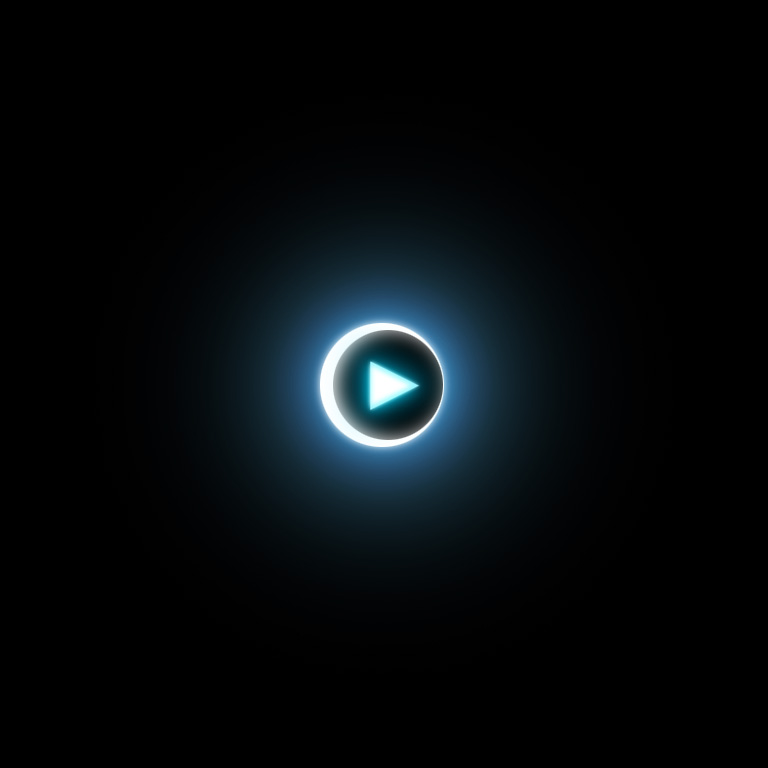
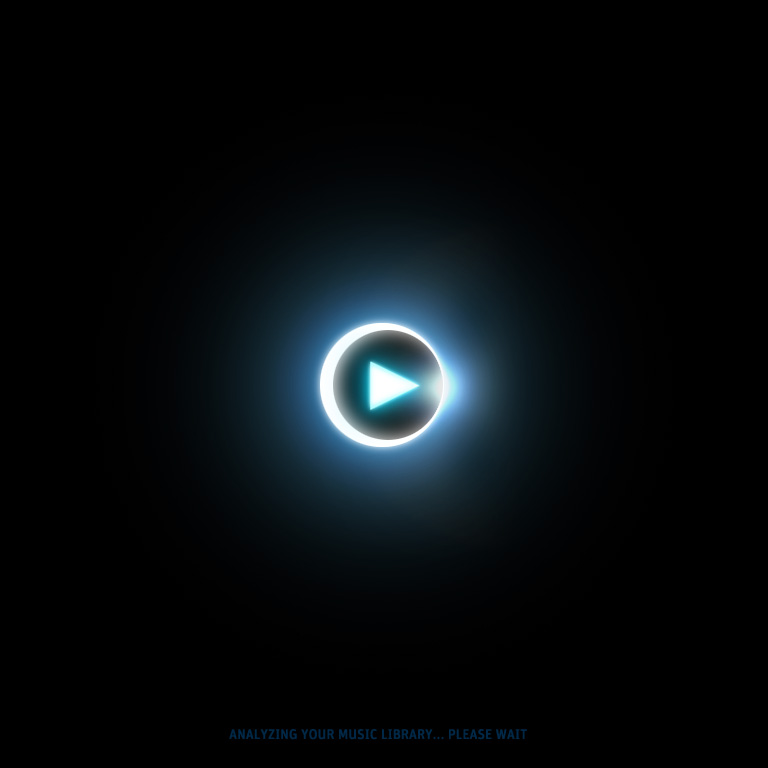
final tweaks, fingers crossed

Changed region(s): [[0.5, 0.4375, 0.6562, 0.5938], [0.2812, 0.9375, 0.5625, 0.9688], [0.5938, 0.9375, 0.6875, 0.9688]]

diff --git a/src/LoadingScreen.cpp b/src/LoadingScreen.cpp
@@ -85,7 +85,7 @@ void LoadingScreen::draw( gl::Texture mStarGlowTex )
 // PLANETARY TEXT
     mPlanetaryTex.enableAndBind();
 	float h		= mPlanetaryTex.getHeight();
-	v1			= Vec2f( center.x + 57.0f, center.y-h*0.5f );
+	v1			= Vec2f( center.x + 60.0f, center.y-h*0.5f );
 	v2			= v1 + mPlanetaryTex.getSize();
 	gl::color( ColorA( 1.0f, 1.0f, 1.0f, 1.0f ) );
     gl::drawSolidRect( Rectf( v1, v2 ) );
@@ -151,7 +151,7 @@ void LoadingScreen::draw( gl::Texture mStarGlowTex )
 	cosAmt			= cos( speed );
 	if( cosAmt > 0.0f ){
 		pos				= Vec2f( sinAmt * 1500.0f, 0.0f );
-		radius			= 256.0f;
+		radius			= 300.0f;
 		v1				= center + pos - Vec2f( radius, radius );
 		v2				= v1 + Vec2f( radius, radius ) * 2.0f;
 		gl::color( ColorA( 1.0f, 1.0f, 1.0f, 1.0f ) );

diff --git a/src/NodeArtist.cpp b/src/NodeArtist.cpp
@@ -56,7 +56,9 @@ void NodeArtist::setData( PlaylistRef playlist )
 	int c2Int = constrain( int(c2), 32, 127 );
 	
 	int totalCharAscii = ( c1Int - 32 ) + ( c2Int - 32 );
-	float asciiPer = ( (float)totalCharAscii/( 190.0f ) ) * 293.0f ;
+	float asciiPer = ( (float)totalCharAscii/( 190.0f ) ) * 493.0f ;
+	
+	std::cout << asciiPer << std::endl;
 	
 	mHue			= sin( asciiPer ) * 0.3f + 0.33f;
 	
